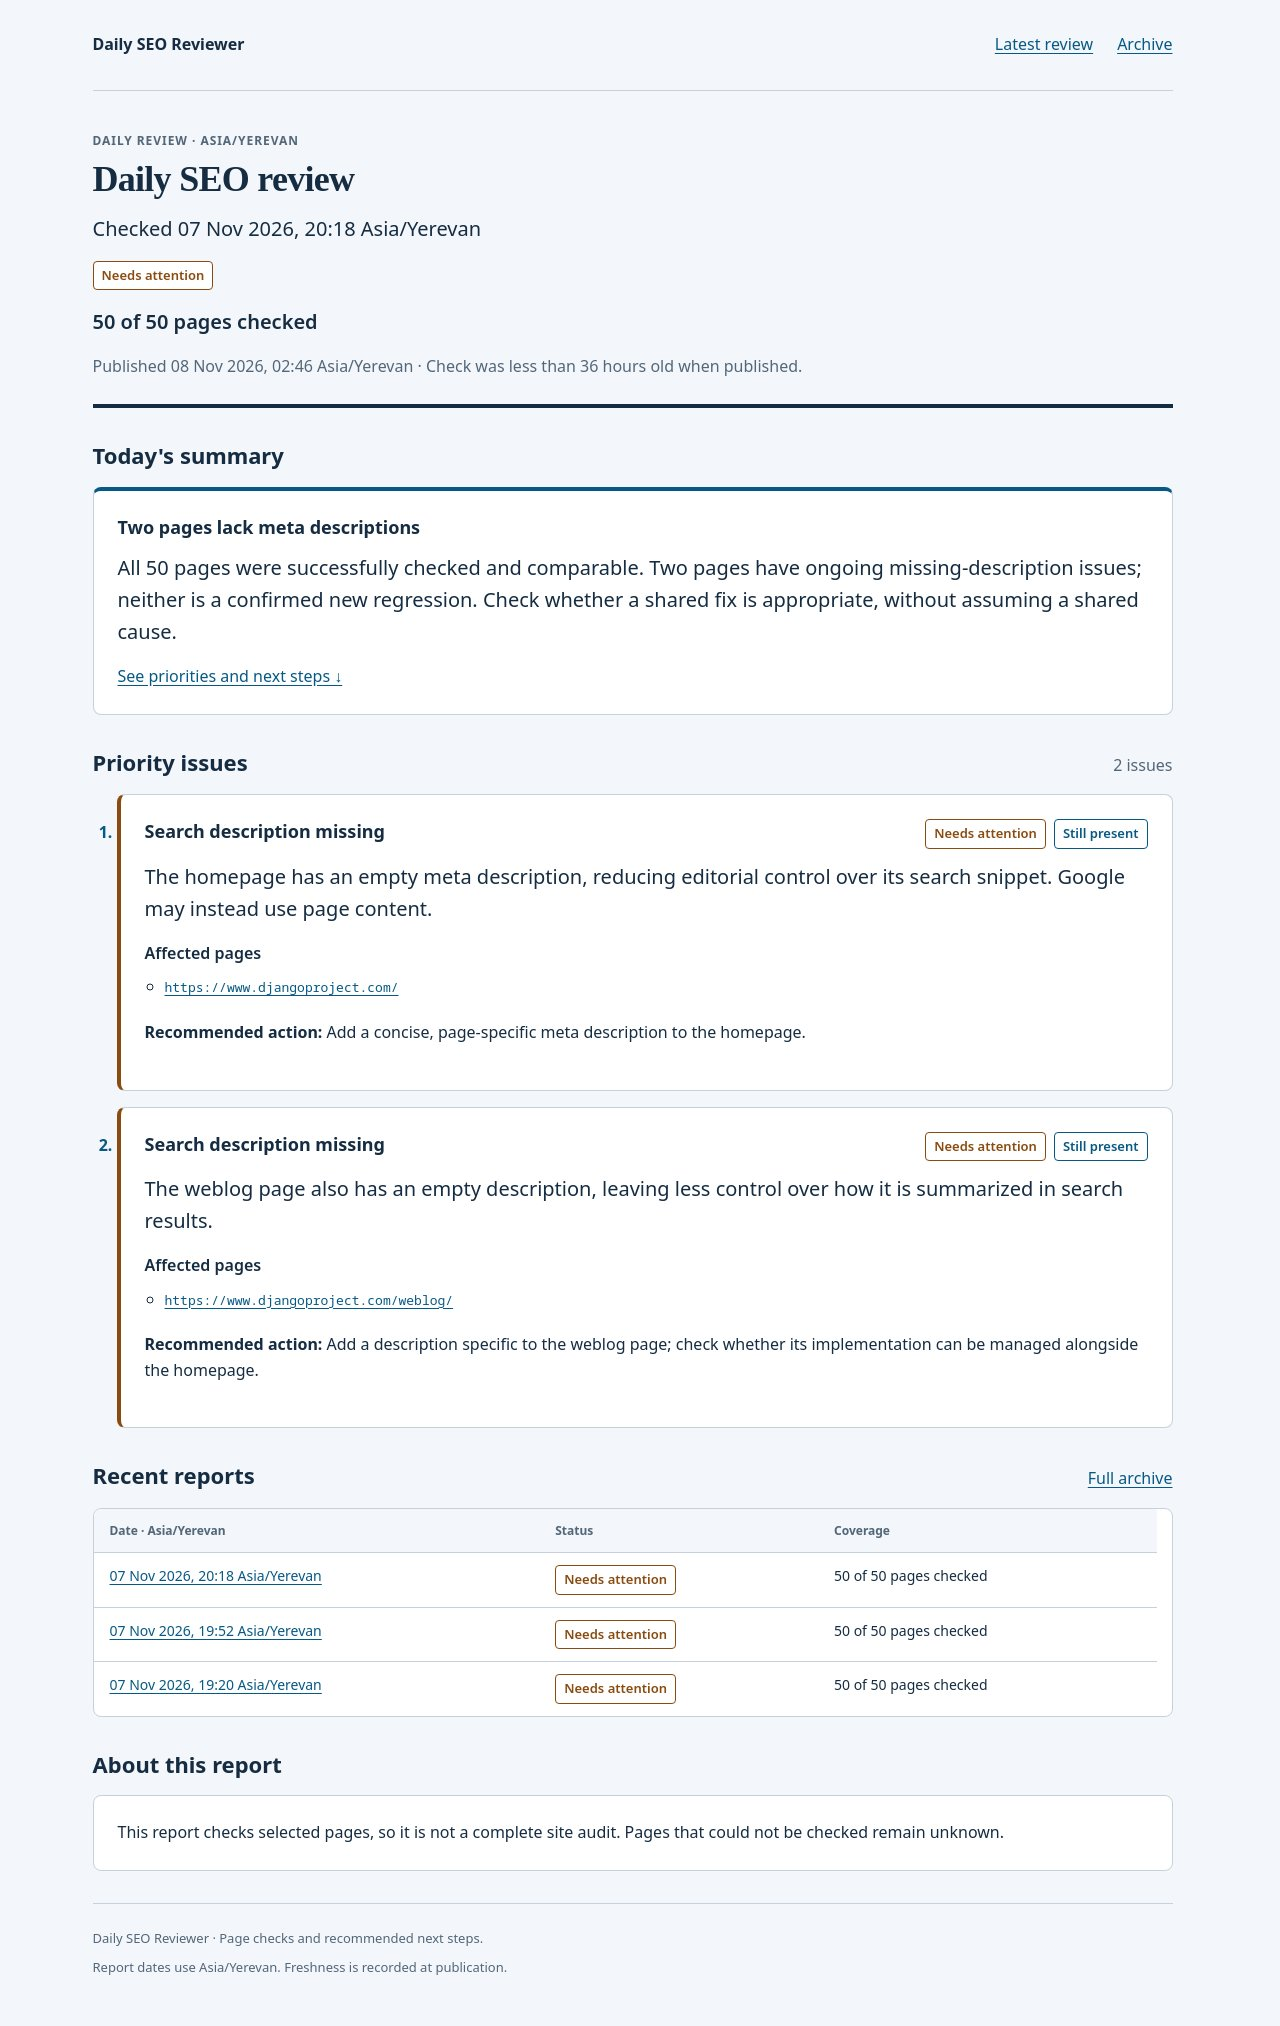
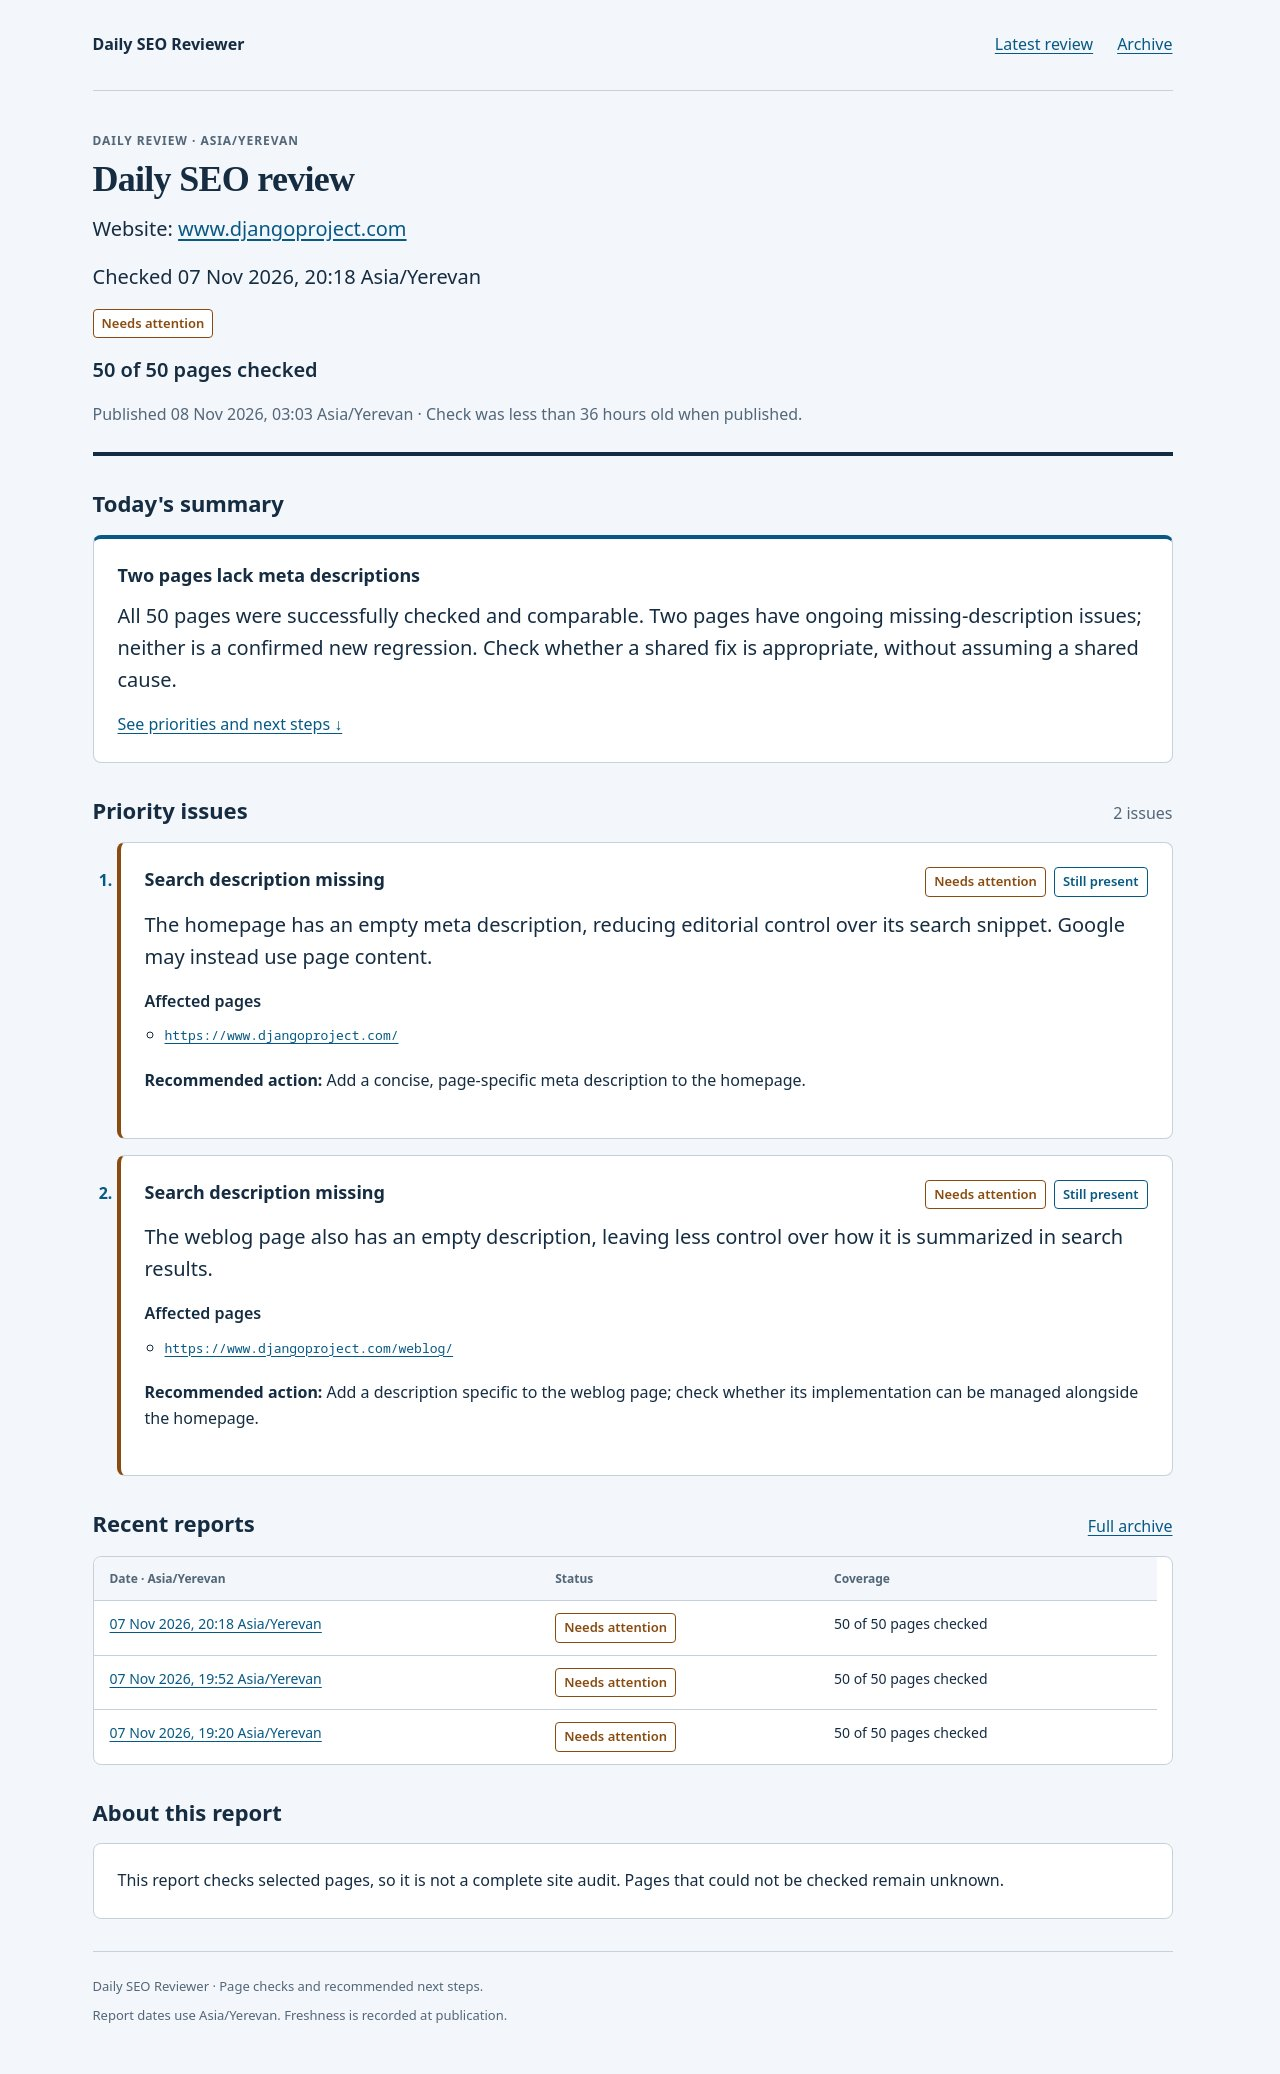
Identify the analyzed website in report headers

diff --git a/seo_reviewer/rendering/report.html b/seo_reviewer/rendering/report.html
@@ -3,6 +3,7 @@
 <header class="page-header">
   <p class="eyebrow">Daily review · Asia/Yerevan</p>
   <h1>Daily SEO review</h1>
+  <p class="lede">Website: {% if site_url %}<a href="{{ site_url }}">{{ site_name }}</a>{% else %}Not recorded{% endif %}</p>
   <p class="lede">Checked {{ collected_at }}</p>
   <div class="status-line">
     <span class="status-badge status--{{ presentation.status_tone }}">{{ presentation.status_label }}</span>

diff --git a/tests/test_render.py b/tests/test_render.py
@@ -346,3 +346,26 @@ def test_ai_report_omits_optional_stock_copy_and_empty_sections(tmp_path):
     assert not tree.xpath('//a[@href="#issues-1"]')
     assert 'No resolved issues' not in tree.text_content()
     assert 'No issues awaiting verification' not in tree.text_content()
+
+
+@pytest.mark.parametrize('status', ['collected', 'collection_failed'])
+def test_report_identifies_configured_website_before_results(tmp_path, status):
+    data, output = tmp_path / 'data', tmp_path / 'site'
+    save_review(data, status=status, findings=[], collection_updates={'config': {'site_url': 'https://www.djangoproject.com'}})
+    render_site(data, output)
+    tree = html.fromstring((output / 'index.html').read_text())
+    header = tree.xpath('//header[contains(@class,"page-header")]')[0]
+    link = header.xpath('.//a[@href="https://www.djangoproject.com"]')[0]
+    assert link.text == 'www.djangoproject.com'
+    assert 'www.djangoproject.com' in tree.xpath('//title')[0].text
+    assert 'Website: Not recorded' not in header.text_content()
+    assert_local_links_resolve(output, '')
+
+
+def test_report_does_not_link_unsafe_website_configuration(tmp_path):
+    data, output = tmp_path / 'data', tmp_path / 'site'
+    save_review(data, collection_updates={'config': {'site_url': 'javascript:alert(1)'}})
+    render_site(data, output)
+    tree = html.fromstring((output / 'index.html').read_text())
+    assert 'Website: Not recorded' in tree.text_content()
+    assert not tree.xpath('//a[starts-with(@href,"javascript:")]')

diff --git a/seo_reviewer/render.py b/seo_reviewer/render.py
@@ -150,9 +150,13 @@ def render_site(data_dir: Path, output_dir: Path, *, base: str = '', now: dateti
                 items.append(item)
             sections.append({'title': title, 'items': items})
         collected = datetime.fromisoformat(collection['completed_at'])
+        site_url = safe_url(collection.get('config', {}).get('site_url'))
+        site_name = urlsplit(site_url).netloc if site_url else None
         freshness = 'Check is over 36 hours old. Run a new check before relying on this report.' if now - collected > timedelta(hours=36) else 'Check was less than 36 hours old when published.'
         context = {
-            'page_title': 'Daily SEO review', 'base': base, 'report': review, 'collection': collection,
+            'page_title': f'{site_name} · Daily SEO review' if site_name else 'Daily SEO review',
+            'site_url': site_url, 'site_name': site_name,
+            'base': base, 'report': review, 'collection': collection,
             'collected_at': display_time(collected), 'published_at': display_time(now), 'freshness': freshness,
             'baseline': review.baseline_only, 'sections': sections, 'history': history[:5],
             'presentation': report_presentation(review, collection),

diff --git a/DESIGN.md b/DESIGN.md
@@ -38,7 +38,7 @@ Display family only for page titles; system sans for prose; monospace for URLs a
 
 ## Layout
 
-A centered 1080px reading surface with a compact masthead and latest/archive navigation. Report sections show title/check date, status and concise coverage, summary and changes, priority issues and actions, issues needing verification, resolved issues, recent reports, and limitations. Incomplete checks and unverified issues are prominent; an incomplete check never gives an all-clear. Spacing follows a 4px base. At 680px and below columns stack. Document owns vertical scroll; semantic tables may scroll horizontally inside labeled regions. Tables keep a 520px minimum width and scroll horizontally in their labeled region on phones. Recent reports are limited to five rows per report; dates are the links; archive lists use static pages of 30 reviews.
+A centered 1080px reading surface with a compact masthead and latest/archive navigation. Report headers identify the configured website by its linked hostname before the check date, including reports with no findings or failed collection. Report sections show title/check date, status and concise coverage, summary and changes, priority issues and actions, issues needing verification, resolved issues, recent reports, and limitations. Incomplete checks and unverified issues are prominent; an incomplete check never gives an all-clear. Spacing follows a 4px base. At 680px and below columns stack. Document owns vertical scroll; semantic tables may scroll horizontally inside labeled regions. Tables keep a 520px minimum width and scroll horizontally in their labeled region on phones. Recent reports are limited to five rows per report; dates are the links; archive lists use static pages of 30 reviews.
 
 ## Elevation & Depth
 
